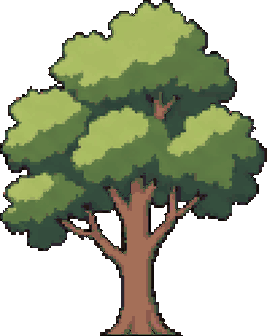
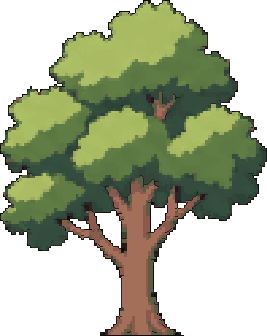
Town rebake: crisp coverage-pick scaling instead of Lanczos (no smeared colours inside the sprites)
Claude-Session: https://claude.ai/code/session_01FzDataYedfiK9tzFLcKdoU

diff --git a/tools/rebake_town.py b/tools/rebake_town.py
@@ -1,41 +1,46 @@
-"""Re-draw the town sprites drawn at 1.35x (town.gd BS) at 1.35x on the 1-px grid: premultiplied Lanczos, then each pixel
-snapped to the source palette, alpha cut at 128 -> assets/town/hx/. Usage: python3 tools/rebake_town.py"""
-import sys
+"""Re-draw the town sprites drawn scaled (town.gd BS 1.35, the far layers PXK 1.78) at that scale on the 1-px grid, crisp:
+each target pixel takes the source pixel it overlaps most (a near tie -> the darker, so line work survives); no blending,
+so no smeared colours (owner 2026-11-06). Then tools/thin_outline.py puts the outlines back to one pixel.
+Usage: python3 tools/rebake_town.py  (-> assets/town/hx/)"""
+import sys, numpy as np
 from PIL import Image
-import numpy as np
-K=1.35
-def rebake(src):
-    im=Image.open(src).convert('RGBA'); a=np.array(im)
-    w,h=im.size; W,H=round(w*K),round(h*K)
-    # palette of the source (opaque pixels)
-    op=a[a[...,3]>127][:,:3]
-    pal=np.unique(op.reshape(-1,3),axis=0).astype(np.float32)
-    # premultiplied smooth resample
-    pm=a.astype(np.float32); pm[...,:3]*=pm[...,3:4]/255
-    big=np.stack([np.array(Image.fromarray(pm[...,c]).resize((W,H),Image.LANCZOS)) for c in range(4)],-1)
-    al=np.clip(big[...,3],0,255)
-    rgb=big[...,:3]/np.maximum(al[...,None],1)*255
-    mask=al>127
-    q=rgb[mask]
-    # nearest palette colour (in a rough perceptual space)
-    wts=np.array([0.3,0.59,0.11])**0.5
-    d=(((q[:,None,:]-pal[None])*wts)**2).sum(-1)
-    out=np.zeros((H,W,4),np.uint8)
-    out[mask,:3]=pal[d.argmin(1)].astype(np.uint8); out[mask,3]=255
-    return Image.fromarray(out)
-
+def rebake_crisp(src, K):
+    a = np.array(Image.open(src).convert("RGBA")).astype(np.int32)
+    h, w = a.shape[:2]; W, H = round(w * K), round(h * K)
+    lum = a[..., 0] * 3 + a[..., 1] * 6 + a[..., 2]
+    def pick(n, N):
+        # for each target index: the source index with the largest overlap; a tie (two sources half each) -> both kept as
+        # candidates, resolved per pixel toward the darker one (line work survives)
+        out = []
+        for t in range(N):
+            s0, s1 = t / K, (t + 1) / K
+            i0 = int(np.floor(s0)); best = []
+            for i in range(i0, min(n, int(np.ceil(s1)))):
+                ov = min(s1, i + 1) - max(s0, i)
+                best.append((ov, i))
+            best.sort(reverse=True)
+            c = [best[0][1]]
+            if len(best) > 1 and best[1][0] > best[0][0] * 0.8: c.append(best[1][1])
+            out.append(c)
+        return out
+    px, py = pick(w, W), pick(h, H)
+    o = np.zeros((H, W, 4), np.uint8)
+    for y in range(H):
+        for x in range(W):
+            cands = [(yy, xx) for yy in py[y] for xx in px[x]]
+            op = [c for c in cands if a[c][3] > 127]
+            if not op: continue
+            c = min(op, key=lambda c: lum[c])
+            o[y, x] = a[c]
+    return Image.fromarray(o)
 
 KEYS = ["g_store", "g_tentR", "g_barn", "g_cottage", "g_well", "g_forge", "g_anvil", "g_kiln", "g_hall", "g_hall_win", "q_fountain",
         "f_tree2", "f_tree2_leaf", "f_tree2_trunk", "f_tree3", "f_tree3_leaf", "f_tree3_trunk", "f_bigtree", "f_bigtree_leaf", "f_bigtree_trunk",
         "f_bush1", "f_bush2", "f_bush3"]
+FAR = ["bg_mountains", "bg_forest"]
 if __name__ == "__main__":
-    import os
+    import os, subprocess
     os.makedirs("assets/town/hx", exist_ok=True)
-    for k in KEYS:
-        rebake("assets/town/%s.png" % k).save("assets/town/hx/%s.png" % k)
-    K = 1.78                     # the far layers (town.gd PXK)
-    for k in ["bg_mountains", "bg_forest"]:
-        rebake("assets/town/%s.png" % k).save("assets/town/hx/%s.png" % k)
-    # then the outlines back to one pixel (the sources are already thinned; scaling thickens them again)
-    import subprocess
+    for k in KEYS: rebake_crisp("assets/town/%s.png" % k, 1.35).save("assets/town/hx/%s.png" % k)
+    for k in FAR: rebake_crisp("assets/town/%s.png" % k, 1.78).save("assets/town/hx/%s.png" % k)
     subprocess.run(["python3", "tools/thin_outline.py"] + ["assets/town/hx/%s.png" % k for k in KEYS], check=True)
